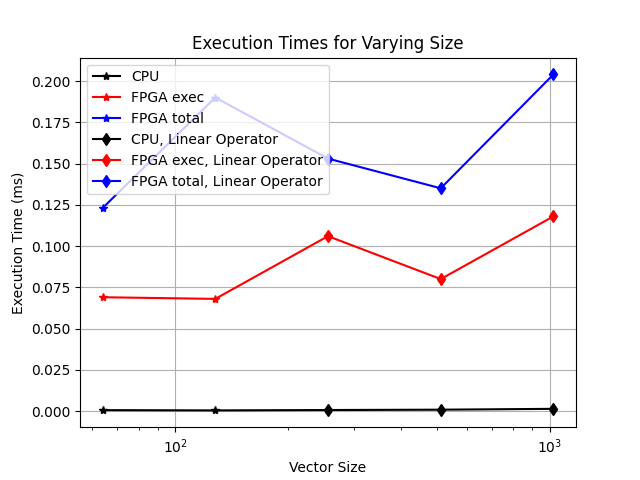
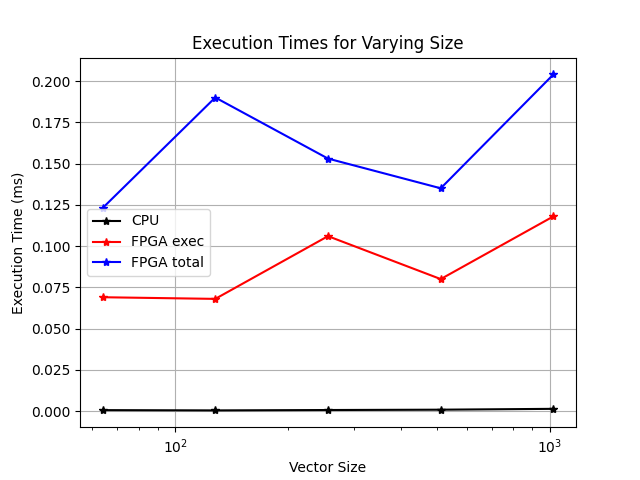
Graphs

diff --git a/FPGA/L_2/graph.py b/FPGA/L_2/graph.py
@@ -1,21 +1,21 @@
 import pandas as pd
 import matplotlib.pyplot as plt
 
-with open('README.md') as f:
-    rows = []
-    for row in f.readlines():
+# with open('README.md') as f:
+#     rows = []
+#     for row in f.readlines():
         
-        # Get rid of leading and trailing '|'
-        tmp = row[1:-2]
-        # Split line and ignore column whitespace
-        clean_line = [col.strip() for col in tmp.split('|')]
-        # Append clean row data to rows variable
-        rows.append(clean_line)
-    # Get rid of syntactical sugar to indicate header (2nd row)
-    rows = rows[:1] + rows[2:]
-print(rows)
-df = pd.DataFrame(rows)
-df.to_csv('my_file.csv', index=False, header=False)
+#         # Get rid of leading and trailing '|'
+#         tmp = row[1:-2]
+#         # Split line and ignore column whitespace
+#         clean_line = [col.strip() for col in tmp.split('|')]
+#         # Append clean row data to rows variable
+#         rows.append(clean_line)
+#     # Get rid of syntactical sugar to indicate header (2nd row)
+#     rows = rows[:1] + rows
+# print(rows)
+# df = pd.DataFrame(rows)
+# df.to_csv('my_file.csv', index=False, header=False)
 
 data=pd.read_csv('my_file.csv')
 size=data['Size'].to_numpy()
@@ -28,12 +28,9 @@ through=data['Throughput (MB/s)'].to_numpy()
 print(through)
 
 fig, (ax1)= plt.subplots(1,1)
-ax1.plot(size[:3],CPU[:3],'k',marker='*', label='CPU')
-ax1.plot(size[:3],GPU_Mem[:3],'r',marker='*', label='FPGA exec')
-ax1.plot(size[:3],GPU_wo_Mem[:3],'b',marker='*', label='FPGA total')
-ax1.plot(size[2:],CPU[2:],'k',marker='d', label='CPU, Linear Operator')
-ax1.plot(size[2:],GPU_Mem[2:],'r',marker='d', label='FPGA exec, Linear Operator')
-ax1.plot(size[2:],GPU_wo_Mem[2:],'b',marker='d', label='FPGA total, Linear Operator')
+ax1.plot(size,CPU,'k',marker='*', label='CPU')
+ax1.plot(size,GPU_Mem,'r',marker='*', label='FPGA exec')
+ax1.plot(size,GPU_wo_Mem,'b',marker='*', label='FPGA total')
 ax1.set_xscale("log")
 ax1.grid()
 ax1.legend()
@@ -44,10 +41,8 @@ plt.savefig('fig_1.png')
 plt.show()
 
 fig, (ax3)= plt.subplots(1,1)
-ax3.plot(size[:3],SU_Mem[:3],'k',marker='*', label='FPGA total')
-ax3.plot(size[:3],SU_wo_Mem[:3],'r',marker='*', label='FPGA exec')
-ax3.plot(size[2:],SU_Mem[2:],'k', marker='d',label='FPGA total, Linear Operator')
-ax3.plot(size[2:],SU_wo_Mem[2:],'r',marker='d', label='FPGA exec, Linear Operator')
+ax3.plot(size,SU_Mem,'k',marker='*', label='FPGA total')
+ax3.plot(size,SU_wo_Mem,'r',marker='*', label='FPGA exec')
 ax3.set_xscale("log")
 ax3.grid()
 ax3.legend()
@@ -58,8 +53,7 @@ plt.savefig('fig_2.png')
 plt.show()
 
 fig, (ax2)= plt.subplots(1,1)
-ax2.plot(size[:3],through[:3],'k',marker='*', label='Throughput')
-ax2.plot(size[2:],through[2:],'r',marker='d', label='Throughput, Linear Operator')
+ax2.plot(size,through,'k',marker='*', label='Throughput')
 ax2.set_xscale("log")
 ax2.grid()
 ax3.legend()

diff --git a/FPGA/L_2/README.md b/FPGA/L_2/README.md
@@ -8,6 +8,4 @@
 
 
 
-![fig_3](https://user-images.githubusercontent.com/84815326/231134884-cffc3134-ba07-48ba-9ee5-b338946433a3.png)
-![fig_1](https://user-images.githubusercontent.com/84815326/231134885-cb91ae4d-b352-4d49-8246-d70fe25aa2fa.png)
-![fig_2](https://user-images.githubusercontent.com/84815326/231134887-39167d1e-0046-4adf-b477-c2d5f3c4fab2.png)
+
